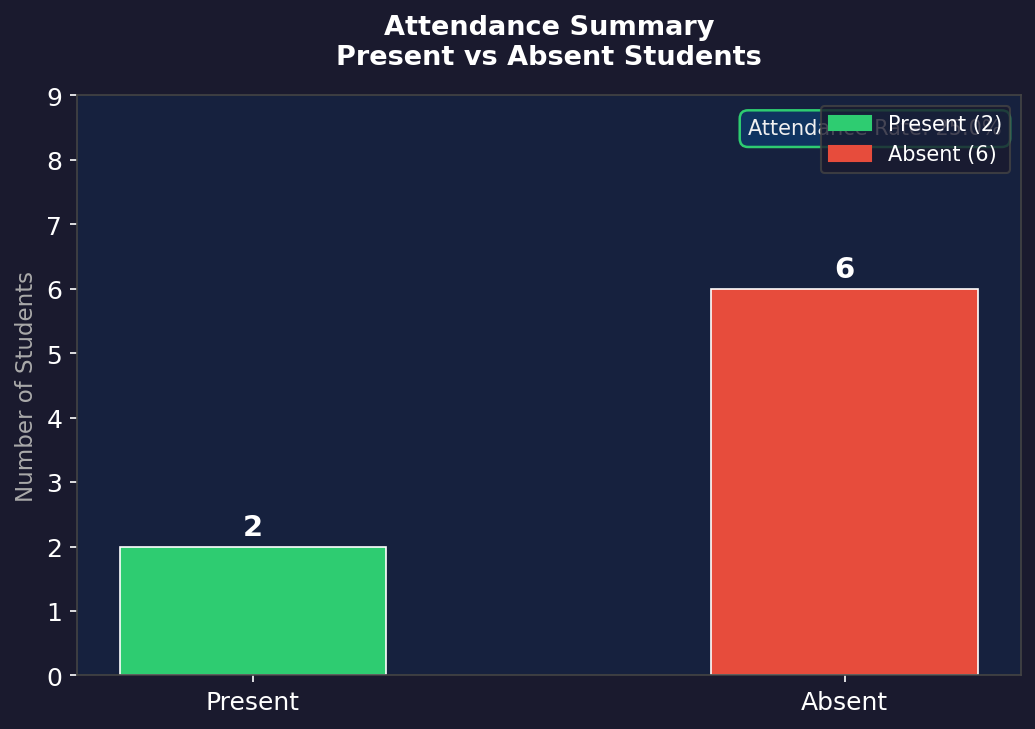
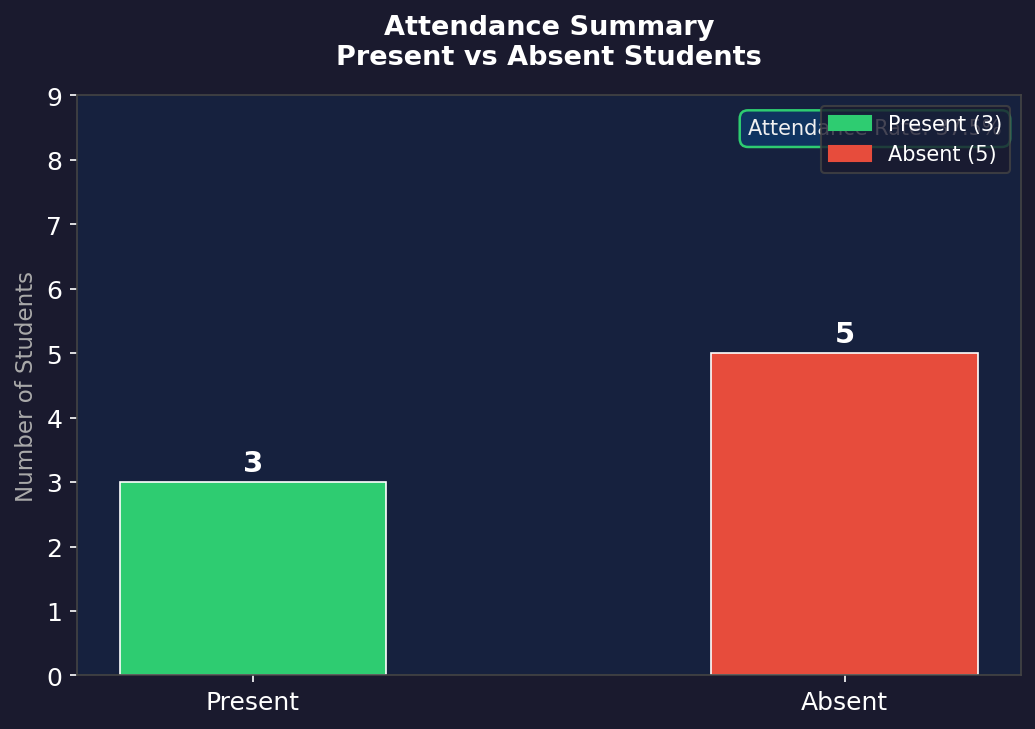
Update attendance records and improve table loading logic
- Fix show_attendance_table to load from CSV when in-memory records are empty
- Update attendance_records.csv with latest session data
- Regenerate attendance_summary.png and student_attendance.png charts

Changed region(s): [[0.0928, 0.6036, 0.371, 0.7545], [0.6802, 0.332, 0.9585, 0.4829], [0.9275, 0.1509, 0.9585, 0.1811]]

diff --git a/main.py b/main.py
@@ -226,7 +226,22 @@ def build_full_records() -> list[dict]:
 
 def show_attendance_table() -> None:
     """Displays all students with their attendance status in a formatted table."""
-    records = build_full_records()
+    if attendance_records:
+        records = build_full_records()
+    elif os.path.exists(CSV_FILE):
+        records = []
+        with open(CSV_FILE, "r", newline="", encoding="utf-8") as f:
+            reader = csv.DictReader(f)
+            for row in reader:
+                records.append({
+                    "id":     row["Student ID"],
+                    "name":   row["Student Name"],
+                    "status": row["Status"],
+                    "time":   row["Time"],
+                    "date":   row["Date"],
+                })
+    else:
+        records = build_full_records()
 
     divider()
     print(f"{Color.BOLD}{Color.CYAN}  ATTENDANCE TABLE — {datetime.now().strftime('%A, %d %B %Y')}{Color.RESET}")
